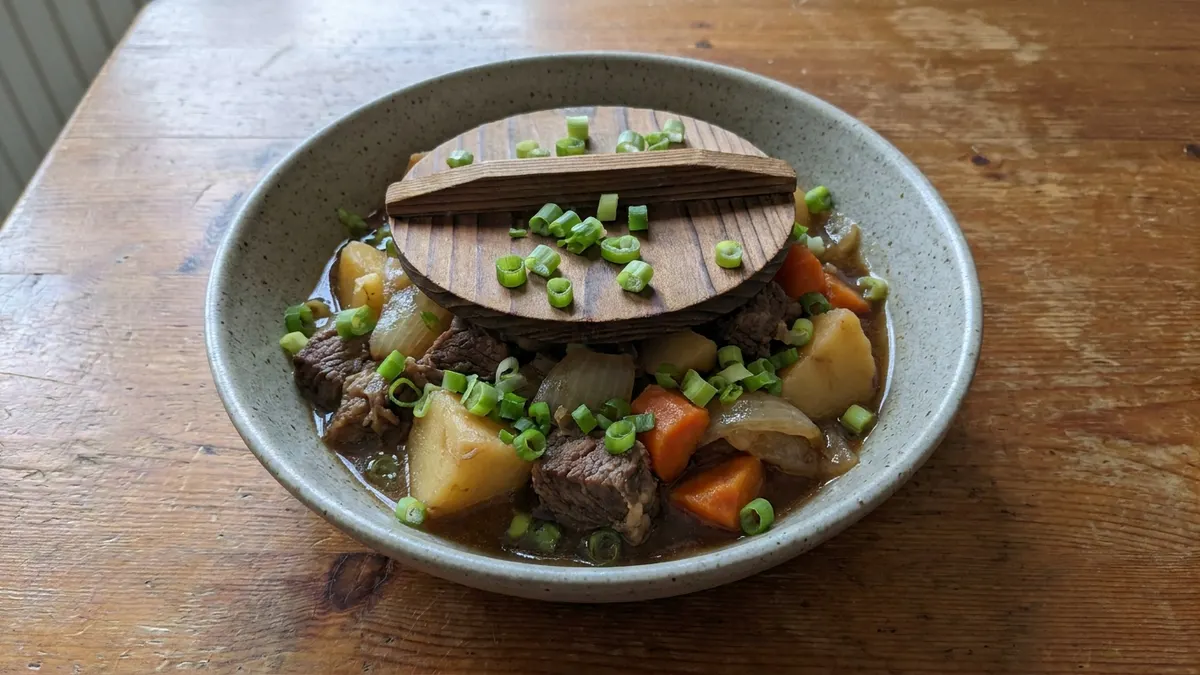
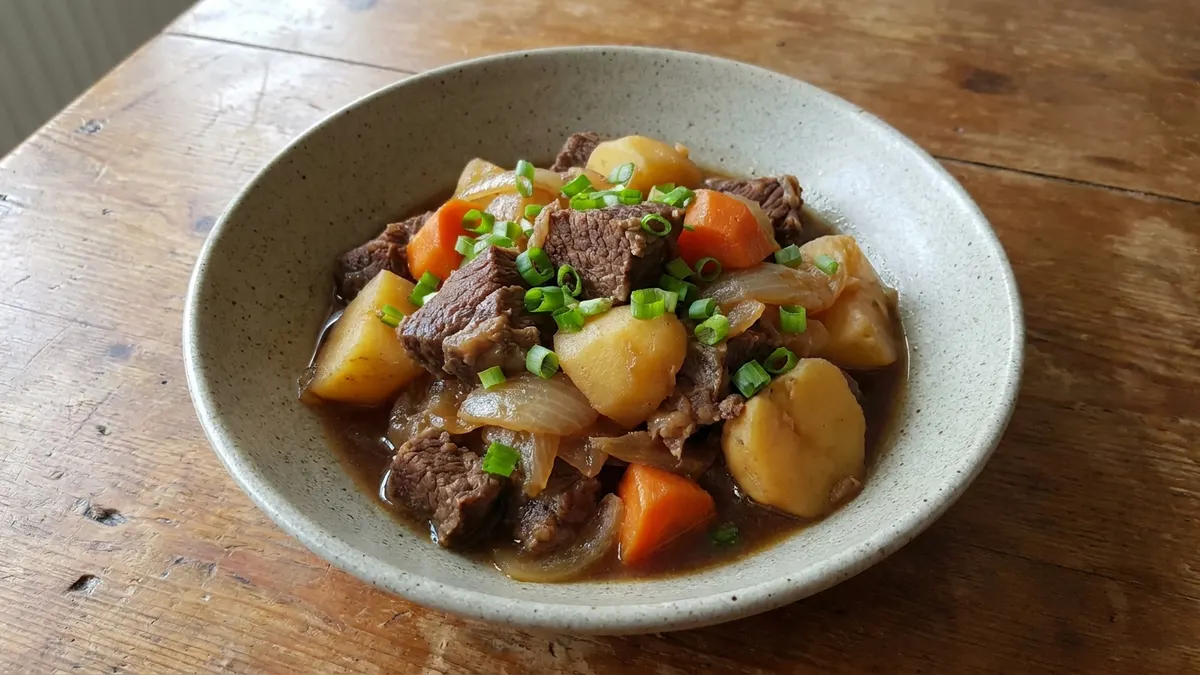
Take the lid off the nikujaga, and let the egg tarts be twelve
The two pictures committed imperfect are now right, and the fix for both
was the description, which feeds the photo prompt verbatim. Nikujaga's
"under a lid that floats on the food" put a wooden otoshibuta on the
plated dish in two draws out of two; the description now teaches the rest
step instead, and the lid stays in the Notes where it is explained. The
cookie-crust egg tarts came back as one large tart three times, "a crust
that eats like shortbread" and "whole, with one slice cut" agreeing on the
wrong scale; the description now says twelve little tarts, and the model
draws exactly that.

diff --git a/content/recipes/hong-kong-egg-tarts-cookie-crust.md b/content/recipes/hong-kong-egg-tarts-cookie-crust.md
@@ -1,6 +1,6 @@
 ---
 title: Hong Kong Egg Tarts (Cookie Crust)
-description: Daan taat with a 曲奇皮 — a short, sandy butter crust that eats like shortbread, under a custard set just short of firm.
+description: Daan taat with a 曲奇皮 — twelve little tarts with a short, sandy butter crust that eats like shortbread, each under a custard set just short of firm.
 category: Baked Goods
 cuisine: Cantonese
 tags:
@@ -14,7 +14,7 @@ waitMinutes: 30
 photo: /photos/hong-kong-egg-tarts-cookie-crust.webp
 photoCredit:
   siteName: Generated image · Google gemini-3-pro-image (Nano Banana Pro)
-photoPrompt: 169fb8eafd0646e0
+photoPrompt: a12958ab8e2ecd18
 ---
 
 ## Ingredients

diff --git a/content/recipes/nikujaga.md b/content/recipes/nikujaga.md
@@ -1,6 +1,6 @@
 ---
 title: Nikujaga
-description: Meat and potatoes simmered in dashi, soy and mirin under a lid that floats on the food. The sugar goes in before the soy, and that order is the recipe.
+description: Meat and potatoes simmered in dashi, soy and mirin, then rested off the heat to drink the liquid back in. The sugar goes in before the soy, and that order is the recipe.
 category: Meat & Fish
 cuisine: Japanese
 tags:
@@ -13,7 +13,7 @@ cookLabel: simmer
 photo: /photos/nikujaga.webp
 photoCredit:
   siteName: Generated image · Google gemini-3-pro-image (Nano Banana Pro)
-photoPrompt: bccd0cf34cb7c386
+photoPrompt: 9127e9da2ab89c27
 ---
 
 ## Ingredients
